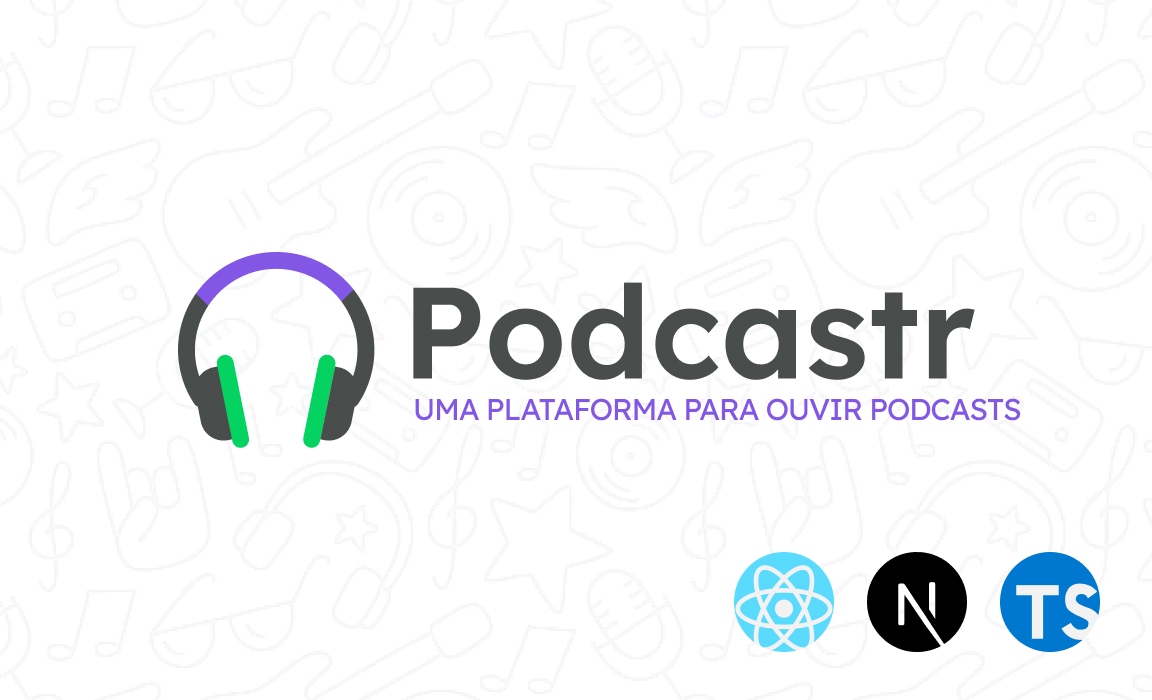
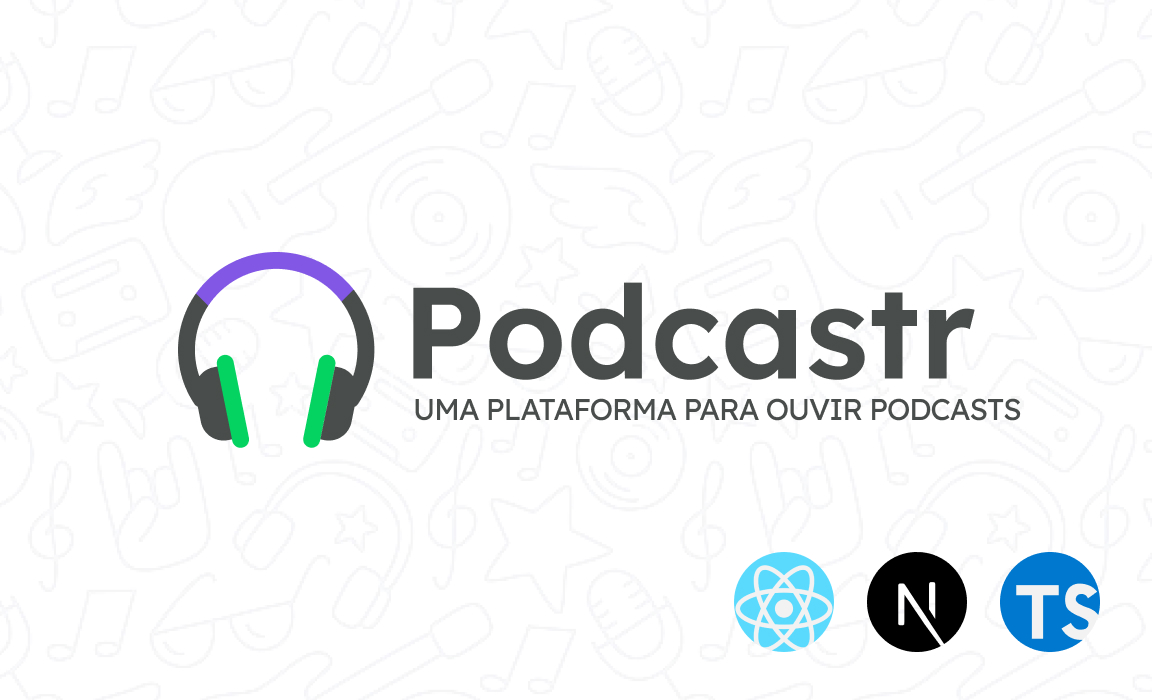
:dizzy: readme update

Changed region(s): [[0.3438, 0.57, 0.9062, 0.6]]

diff --git a/README.md b/README.md
@@ -1,5 +1,5 @@
 <h1 align="center">
-  <img alt="podcastr" title="podcastr" src=".github/logo@white.svg" width="360px" />
+  <img alt="podcastr" title="podcastr" src=".github/logo.svg" width="360px" />
 </h1>
 
 <p align="center">
